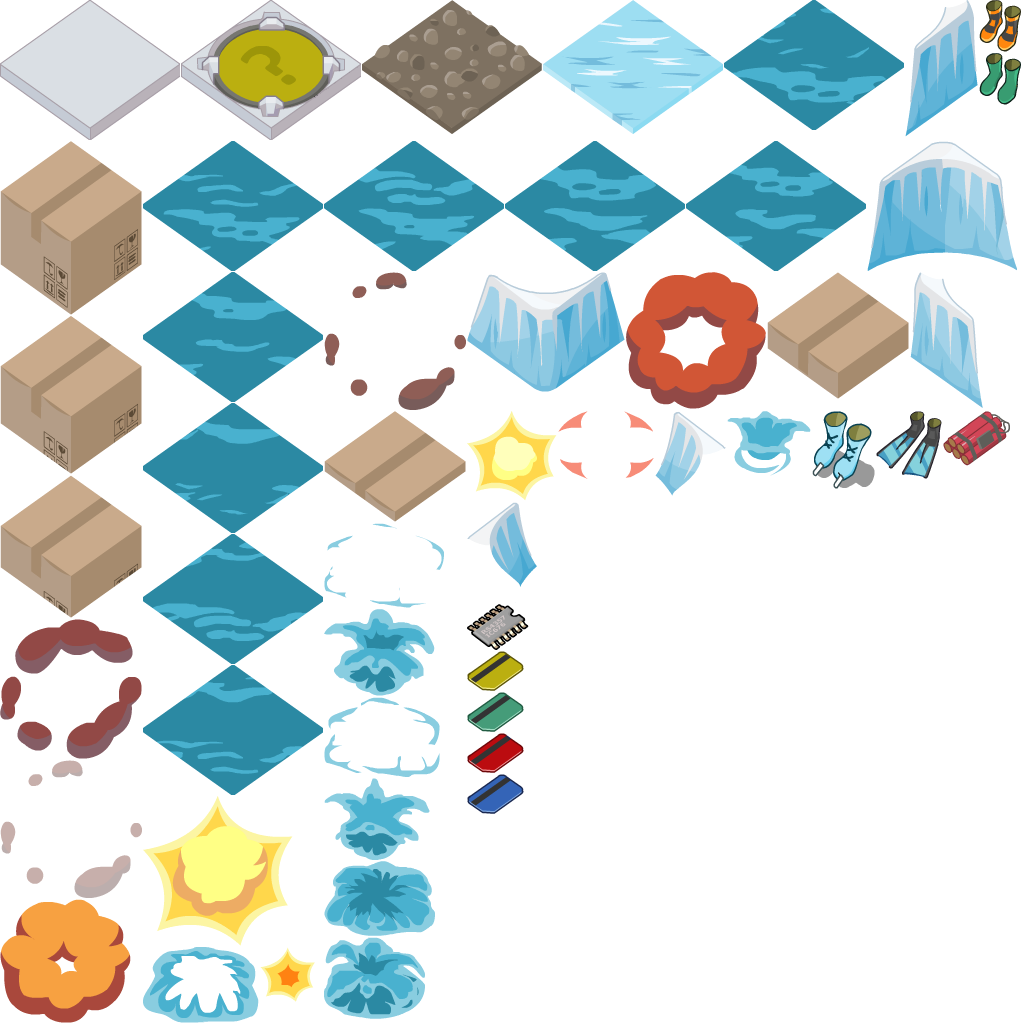
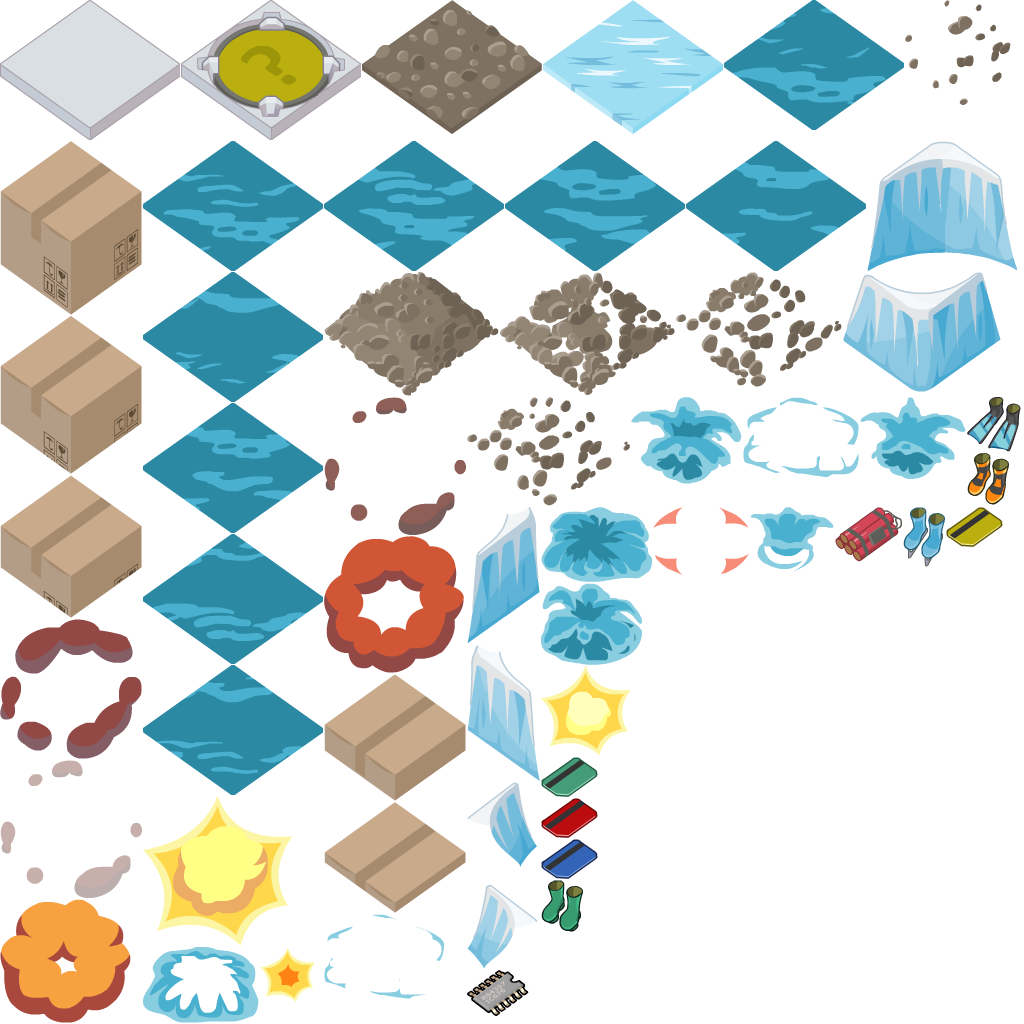
Dirt: art. Boots: art.

diff --git a/Classes/Level/Objects/Dirt.cpp b/Classes/Level/Objects/Dirt.cpp
@@ -15,15 +15,15 @@ Dirt::Dirt(Level* level, const cocos2d::Vec2& coordinate) : LevelObject(level, c
 
 void Dirt::onAdd()
 {
-    _node = cocos2d::Sprite::createWithSpriteFrameName("button-floor.png");
+    _node = cocos2d::Sprite::createWithSpriteFrameName("floor.png");
     _node->setAnchorPoint(cocos2d::Vec2::ZERO);
     _node->setPosition(_level->getProjector()->coordinateToPoint(_coordinate) + cocos2d::Vec2(0, -12));
     _node->setLocalZOrder(_level->getProjector()->coordinateToZOrder(_coordinate) + Level::WALL_Z_ORDER);
     _level->getStage()->addChild(_node);
     
-    _dirtNode = cocos2d::Sprite::createWithSpriteFrameName("button-brown.png");
+    _dirtNode = cocos2d::Sprite::createWithSpriteFrameName("dirt-0001.png");
     _dirtNode->setAnchorPoint(cocos2d::Vec2::ZERO);
-    _dirtNode->setPosition(cocos2d::Vec2::ZERO);
+    _dirtNode->setPosition(cocos2d::Vec2(0, 12));
     _node->addChild(_dirtNode);
 }
 
@@ -34,7 +34,7 @@ void Dirt::reset()
     _node->setLocalZOrder(_level->getProjector()->coordinateToZOrder(_coordinate) + Level::WALL_Z_ORDER);
     
     _dirtNode->setVisible(true);
-    _dirtNode->setSpriteFrame(cocos2d::SpriteFrameCache::getInstance()->getSpriteFrameByName("button-brown.png"));
+	_dirtNode->setSpriteFrame(cocos2d::SpriteFrameCache::getInstance()->getSpriteFrameByName("dirt-0001.png"));
 }
 
 bool Dirt::isEnterableBy(const Creature* creature, Direction /*direction*/) const
@@ -42,7 +42,7 @@ bool Dirt::isEnterableBy(const Creature* creature, Direction /*direction*/) cons
     return _removed || (creature->getType() == CreatureType::CHIP);
 }
 
-void Dirt::afterEnter(Creature *creature)
+void Dirt::beforeEnter(Creature *creature)
 {
     if (_removed)
     {
@@ -52,7 +52,7 @@ void Dirt::afterEnter(Creature *creature)
     _node->setLocalZOrder(_level->getProjector()->coordinateToZOrder(_coordinate) + Level::BACK_Z_ORDER);
     
     _dirtNode->runAction(cocos2d::Sequence::create(
-        cocos2d::Animate::create(cocos2d::AnimationCache::getInstance()->getAnimation("splash")),
+        cocos2d::Animate::create(cocos2d::AnimationCache::getInstance()->getAnimation("dirt")),
         cocos2d::CallFuncN::create([](cocos2d::Node* node) {
             node->setVisible(false);
         }),

diff --git a/Classes/Level/Objects/Dirt.h b/Classes/Level/Objects/Dirt.h
@@ -16,7 +16,7 @@ public:
     
     bool isEnterableBy(const Creature* creature, Direction direction) const override;
     
-    void afterEnter(Creature* creature) override;
+	void beforeEnter(Creature* creature) override;
     
 protected:
     bool _removed;
